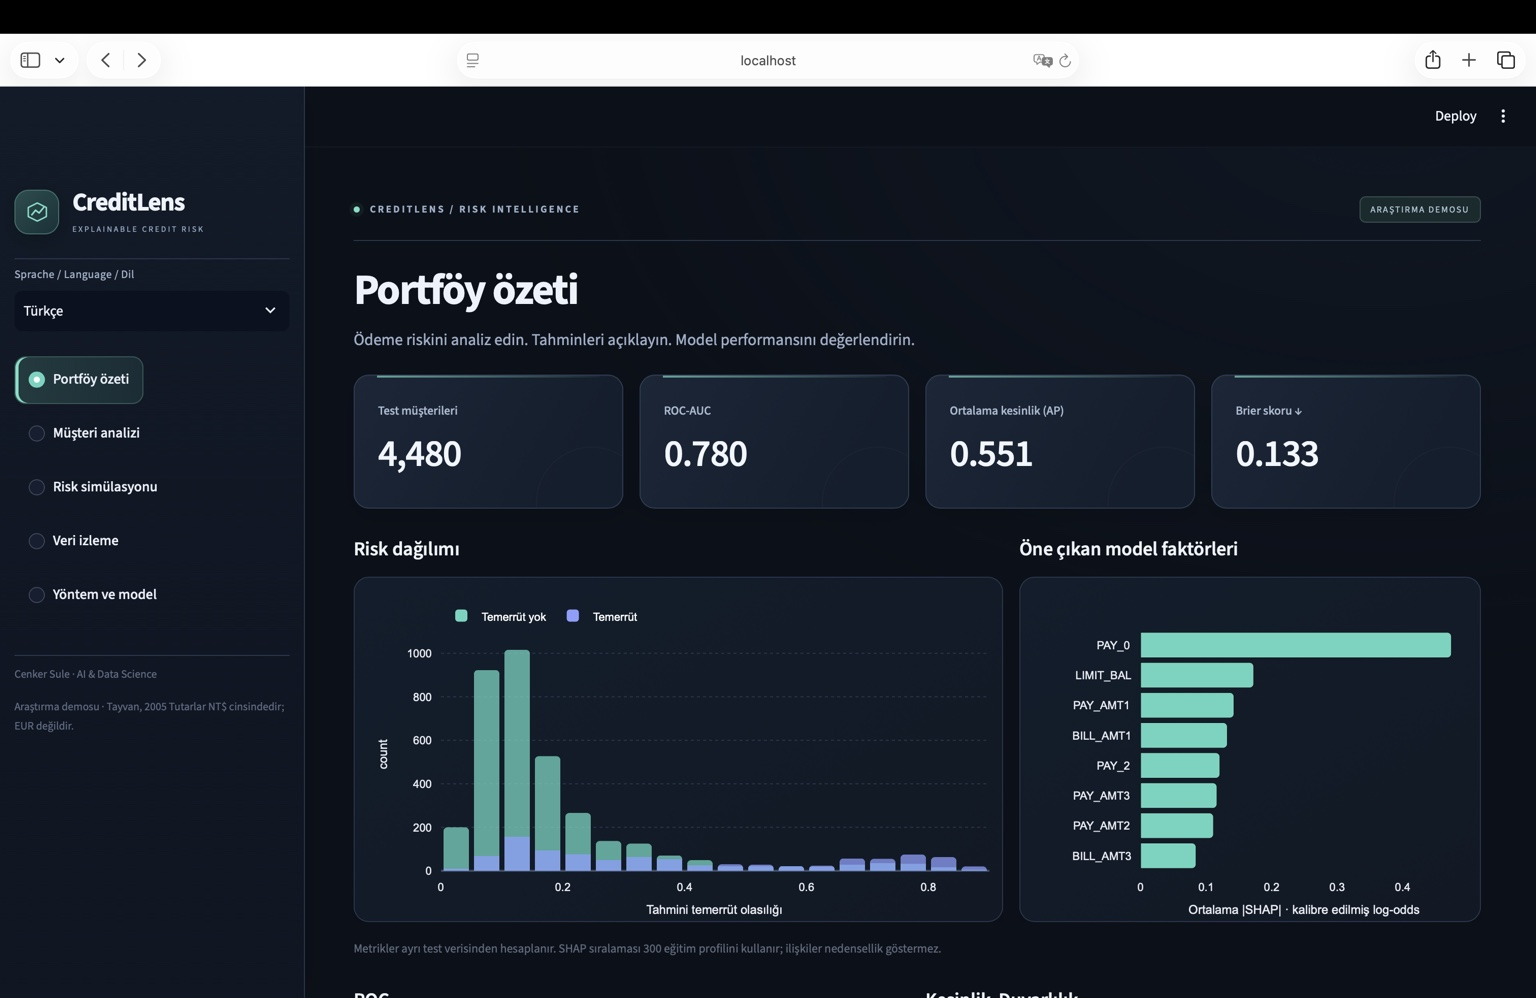
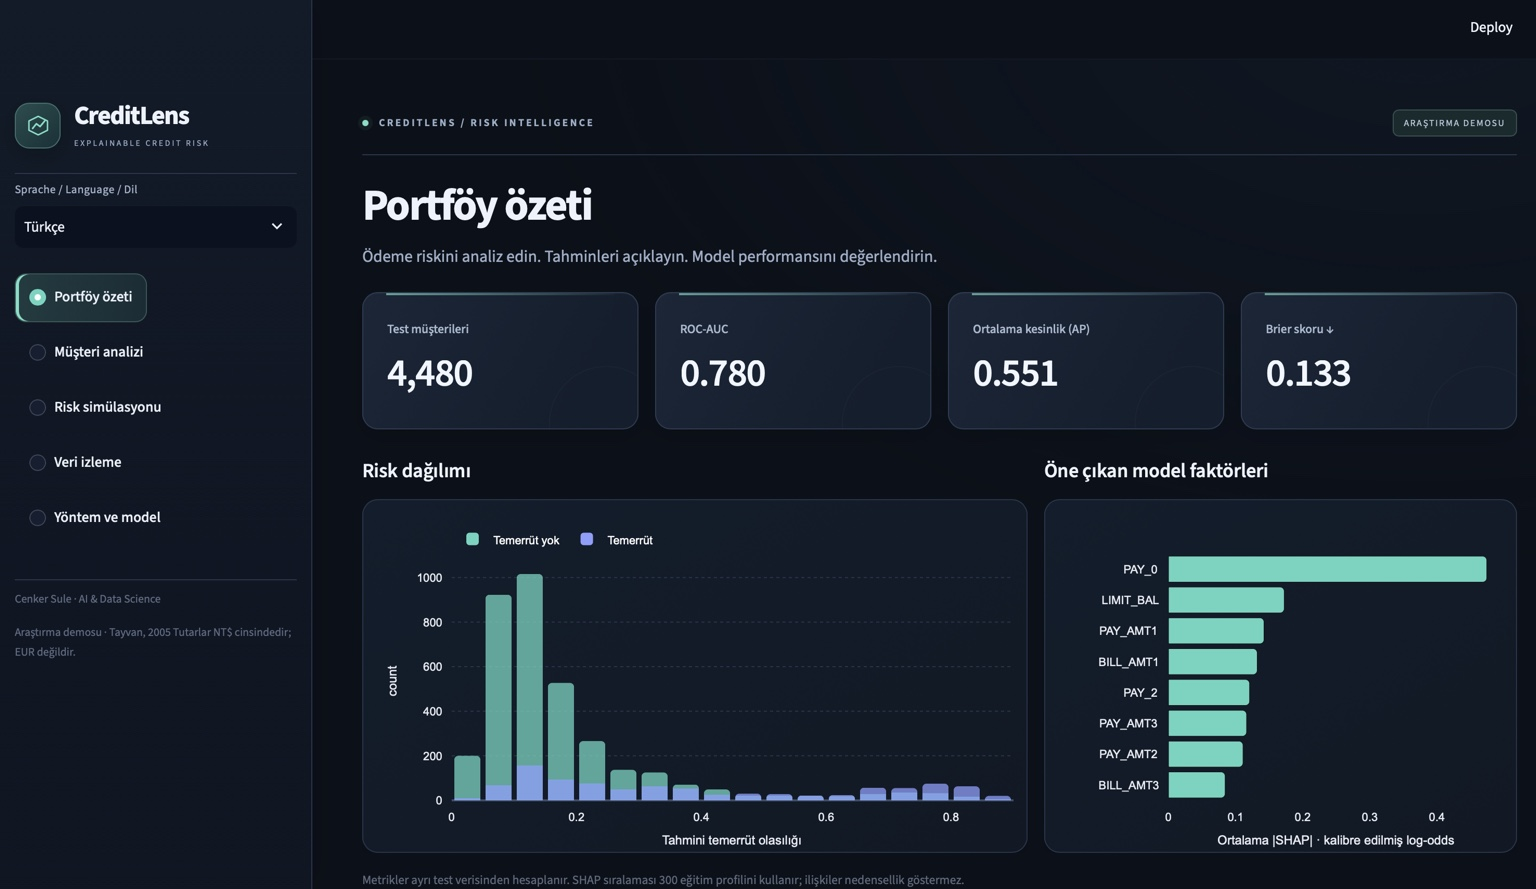
Add Turkish README with screenshot

diff --git a/README.tr.md b/README.tr.md
@@ -1,0 +1,110 @@
+# CreditLens · Açıklanabilir Kredi Riski
+
+[Deutsch](README.md) | [English](README.en.md) | **Türkçe**
+
+Mevcut kredi kartı müşterilerinin bir sonraki ay ödeme temerrüdü riskini analiz eden etkileşimli Python uygulaması. CreditLens; makine öğrenmesini, müşteriye özel açıklamaları, örnek maliyet simülasyonunu ve veri izlemeyi bir araya getirir.
+
+**Geliştiren:** Cenker Sule · Yapay Zekâ ve Veri Bilimi
+
+## Özellikler
+
+- Lojistik regresyon, XGBoost ve sabit temerrüt oranı referansının karşılaştırılması.
+- Birbirinden ayrı eğitim, kalibrasyon, doğrulama ve test veri bölümleri.
+- Gösterilen kalibre edilmiş tahmini yeniden oluşturan SHAP açıklamaları.
+- İnceleme ve kaçırılan temerrüt maliyetleriyle etkileşimli eşik analizi.
+- Toplu CSV tahminleri, girdi doğrulama ve Popülasyon Kararlılık Endeksi (PSI) ile izleme.
+- Almanca, İngilizce ve Türkçe arayüz; varsayılan dil Almancadır.
+- Tekrar üretilebilir model dosyaları, otomatik testler ve Docker yapılandırması.
+
+## Uygulama görünümü
+
+![CreditLens Türkçe portföy özeti](docs/screenshots/overview-tr.jpeg)
+
+*Türkçe arayüzde portföy özeti. Almanca ve İngilizce de dil menüsünden seçilebilir.*
+
+## Ölçülen sonuçlar
+
+Ayrı tutulan test verisi: **4.480 müşteri**, **%21,56** temerrüt oranı. XGBoost yapılandırması test başarısına göre değil, doğrulama verisindeki ortalama kesinliğe (AP) göre seçilmiştir.
+
+| Model | ROC-AUC | Ortalama kesinlik (AP) | Brier skoru ↓ |
+| --- | ---: | ---: | ---: |
+| Sabit temerrüt oranı referansı | 0,500 | 0,216 | 0,1691 |
+| Lojistik regresyon | 0,722 | 0,486 | 0,1441 |
+| XGBoost, ham | 0,780 | 0,551 | 0,1331 |
+| XGBoost, sigmoid kalibrasyonlu | 0,780 | 0,551 | 0,1332 |
+
+Kalibrasyon bu çalıştırmada test Brier skorunu **iyileştirmemiştir**. İki sürüm de raporlanır; kalibre edilmiş sürüm önceden tanımlanmış demo akışında kullanılır. Monoton sigmoid kalibrasyonu sıralamayı ve dolayısıyla ROC-AUC ile AP'yi korur.
+
+%95 bootstrap aralıkları: ROC-AUC **0,763–0,797**, AP **0,516–0,585**. Bunlar sabit test tahminlerindeki belirsizliği gösterir; tüm eğitim sürecinin belirsizliğini kapsamaz. Kaçırılan temerrüt başına 5, incelenen müşteri başına 1 maliyet birimi varsayımıyla doğrulamada seçilen eşik **0,22**'dir.
+
+## Docker ile çalıştırma
+
+Docker Desktop'ı kurup Docker motorunu başlat. Eğitimli modeller ve kaynak veri pakete dahildir. İlk imaj derlemesi internet gerektirir.
+
+```bash
+docker compose up --build
+```
+
+[http://localhost:8501](http://localhost:8501) adresini aç. Durdurmak için `Ctrl+C`, konteyneri kaldırmak için `docker compose down` kullan.
+
+## Python ile çalıştırma
+
+Python 3.12 önerilir. Apple Silicon üzerinde XGBoost için `brew install libomp` gerekebilir.
+
+```bash
+python3.12 -m venv .venv
+source .venv/bin/activate
+python -m pip install -r requirements.txt
+python -m pip install --no-deps -e .
+python -m streamlit run app.py
+```
+
+## Yeniden eğitim ve test
+
+```bash
+python -m credit_risk.train
+python -m pip install -r requirements-dev.txt
+python -m pytest -q
+```
+
+Eğitim, UCI kaynak dosyasının SHA-256 özetini kontrol eder; dosya yoksa UCI'dan indirir. `artifacts/report.json`, veri bölümü kimlikleri, tahminler, eğitim referans profilleri ve modeller yeniden oluşturulur. Doğrudan bağımlılıklar sürüme sabitlenmiştir; platformlar arasında küçük sayısal farklar olabilir.
+
+## Proje yapısı
+
+| Dosya / klasör | Amaç |
+| --- | --- |
+| `app.py` | Üç dilli Streamlit paneli |
+| `src/credit_risk/data.py` | Veri edinme, doğrulama ve gruplu bölme |
+| `src/credit_risk/train.py` | Eğitim, kalibrasyon, seçim ve değerlendirme |
+| `src/credit_risk/model.py` | Tahmin ve toplamsal SHAP açıklamaları |
+| `src/credit_risk/evaluation.py` | Metrikler, politika maliyetleri ve alt grup incelemesi |
+| `src/credit_risk/monitoring.py` | PSI ve eğitim aralığı izleme |
+| `artifacts/report.json` | Ölçülen sonuçların tamamı |
+| `docs/model_card.md` | Model varsayımları ve sınırlamaları |
+| `docs/START_HERE_TR.md` | Türkçe hızlı başlangıç rehberi |
+
+## Beş dakikalık demo
+
+1. Portföy özetinde model başarısını ve risk dağılımını incele.
+2. Örnek müşteri seçip müşteriye özel SHAP katkılarına bak.
+3. Örnek politika simülatöründe maliyetleri ve risk eşiğini değiştir.
+4. Veri izleme ekranında test portföyünü yapay olarak değiştirilmiş kredi limitleriyle karşılaştır.
+5. `data/batch_example.csv` dosyasını yükleyip tahminleri indir. On satırlık örnek, işlevi gösterir; güvenilir veri kayması yorumu için yeterli değildir.
+
+## Veri ve sınırlamalar
+
+**Yeh, I. (2009), Default of Credit Card Clients, UCI Machine Learning Repository**, [DOI: 10.24432/C55S3H](https://doi.org/10.24432/C55S3H). Tayvan'daki 30.000 müşterinin Nisan–Eylül 2005 ödeme geçmişidir. Veri lisansı: [CC BY 4.0](https://creativecommons.org/licenses/by/4.0/). Tutarlar **NT$** cinsindedir; EUR değildir. Kaynak ve dönüşümler: [data/README.md](data/README.md).
+
+Cinsiyet, yaş, eğitim, medeni durum ve kimlik numarası model girdilerinden çıkarılmıştır. Cinsiyet ve yaş yalnızca betimleyici alt grup değerlendirmesinde tutulur. Bu değişkenlerin çıkarılması adilliği kanıtlamaz ve dolaylı ayrımcılık olasılığını ortadan kaldırmaz.
+
+Veri, güncel Alman banka müşterilerini temsil etmez. Zamansal veya dış veriyle doğrulama yapılmamıştır. Bu portföy araştırması, mevcut kart sahiplerinin bir sonraki ay temerrüt riskini tahmin eder; üretimde kullanılan bir kredi karar sistemi değildir. İnceleme gerçek kayıpları otomatik olarak önlemez; maliyet simülasyonu örnek varsayımlar kullanır.
+
+## Doğrulama durumu
+
+**26 otomatik test geçti:** veri bölümü bütünlüğü, girdi doğrulama, SHAP toplamsallığı, maliyet hesabı, veri kayması davranışı, tahmin dosyaları ve üç dilde beş ekran test edildi.
+
+Uygulama Mac üzerinde Docker ile çalıştırılıp Safari ekran görüntüleriyle incelendi. İlk konteynerdeki paket yolu sorunu, Dockerfile içinde düzenlenebilir kurulumla giderildi. GitHub Actions akışı testleri, Docker derlemesini ve konteyner sağlık kontrolünü tanımlar; gerçek GitHub çalışmasının sonucu Actions ekranından kontrol edilmelidir.
+
+Görsel güncellemeler model dosyalarını, hesaplamaları veya eşikleri değiştirmez. Örneğin doğrulama simülasyonunda maliyetler 14/4 ve eşik 0,28 olduğunda inceleme oranı %25,6, kaçırılan temerrüt 430 ve müşteri başına maliyet 2,344 birimdir.
+
+Kod: [MIT](LICENSE). Kaynak ve türetilmiş veriler: CC BY 4.0.

diff --git a/README.md b/README.md
@@ -1,6 +1,6 @@
 # CreditLens · Explainable Credit Risk
 
-**Deutsch** | [English](README.en.md)
+**Deutsch** | [English](README.en.md) | [Türkçe](README.tr.md)
 
 Eine interaktive Python-Anwendung zur Analyse des Zahlungsausfallrisikos bestehender Kreditkartenkunden. CreditLens verbindet Machine Learning mit nachvollziehbaren Einzelprognosen, einer illustrativen Kostensimulation und Datenmonitoring.
 

diff --git a/README.en.md b/README.en.md
@@ -1,6 +1,6 @@
 # CreditLens · Explainable Credit Risk
 
-[Deutsch](README.md) | **English**
+[Deutsch](README.md) | **English** | [Türkçe](README.tr.md)
 
 An interactive Python application for analysing next-month payment default risk among existing credit-card customers. CreditLens combines machine learning with individual explanations, an illustrative policy cost simulator and data monitoring.
 
